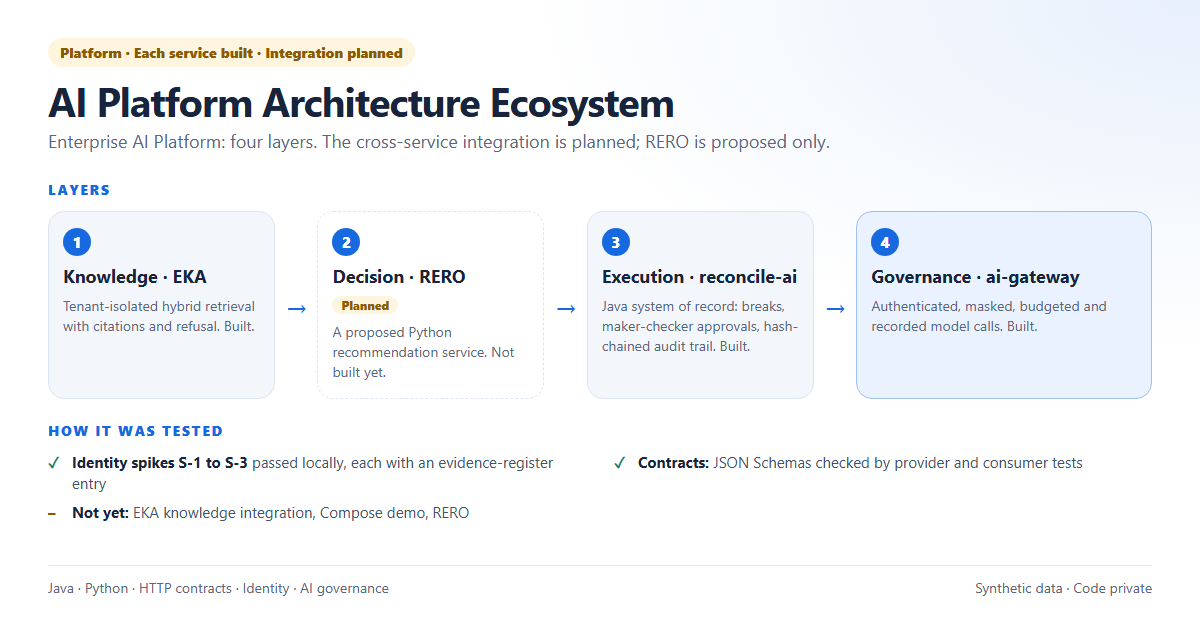
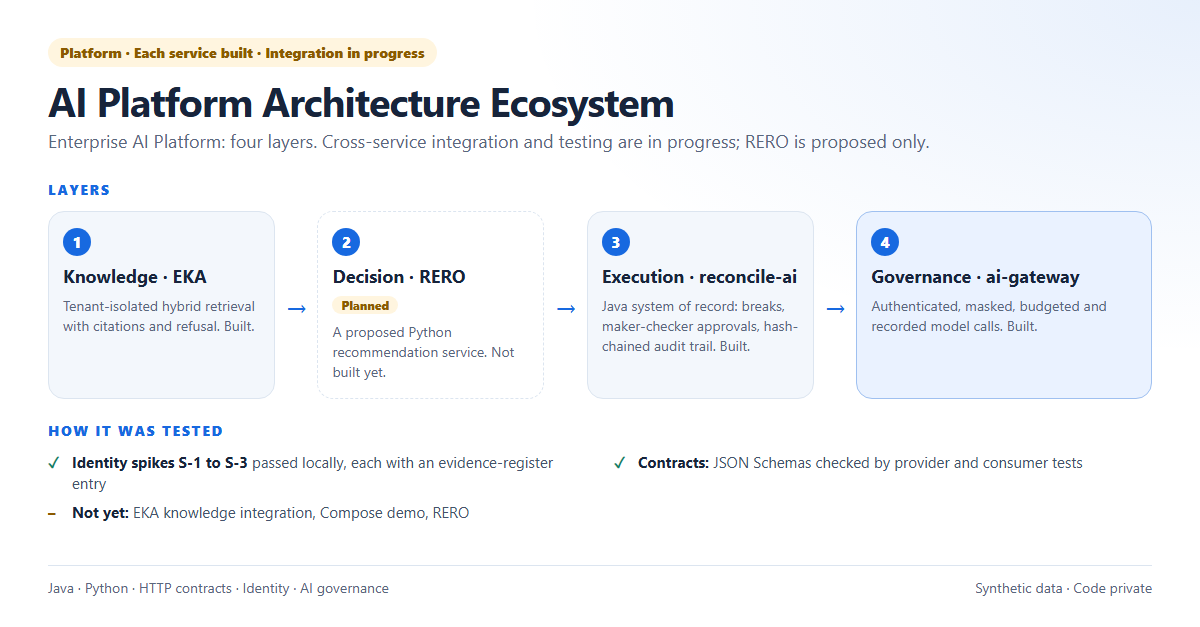
Move Platform Integration to major projects, add client and domain rows, add LTIMindtree AI points, fix contact band

Changed region(s): [[0.2467, 0.2121, 0.7708, 0.2424], [0.2775, 0.0606, 0.37, 0.1212]]

diff --git a/index.html b/index.html
@@ -234,6 +234,8 @@
       background: var(--navy);
       padding: 68px 0;
     }
+    /* Same specificity as the alternating-section rule above, and later, so the contact band stays navy. */
+    section.contact { background: var(--navy); }
     .contact .eyebrow { color: #a9c9ff; }
     .contact h2 { color: #fff; }
     .contact p { color: #c6d2e1; max-width: 660px; }
@@ -324,6 +326,12 @@
     .principle { padding: 18px 20px; }
     .principle h3 { margin: 0; font-size: 1rem; }
     .principle p { margin: 8px 0 0; font-size: .9rem; }
+    .card.small .status-row { margin-bottom: 8px; }
+    .engagements { display: grid; gap: 8px; margin: 14px 0 0; }
+    .engagement { margin: 0; padding: 9px 14px; border-left: 3px solid var(--blue); border-radius: 0 10px 10px 0; background: var(--pale); color: #43536b; font-size: .92rem; line-height: 1.55; }
+    .engagement strong { color: var(--ink); }
+    .engagement .sep { margin: 0 8px; color: #9fb0c6; }
+    .eng-domain { display: inline-block; margin-right: 10px; padding: 1px 10px; border-radius: 999px; background: #eaf2ff; color: var(--blue-dark); font-size: .74rem; font-weight: 800; letter-spacing: .02em; vertical-align: middle; }
     .contact .contact-lead { font-size: 1.15rem; color: #fff; max-width: 760px; }
     .contact .contact-lead a { color: #a9c9ff; font-weight: 700; }
     @media (max-width: 900px) { .metrics { grid-template-columns: repeat(3, minmax(0, 1fr)); } .principles { grid-template-columns: repeat(2, minmax(0, 1fr)); } }
@@ -623,40 +631,39 @@
 
           <article class="card featured">
             <div class="status-row">
-              <span class="status st-lang">Java · Flagship</span>
-              <span class="status">Built and tested</span>
-              <span class="status st-ci">CI green</span>
-              <span class="status st-live">Live-verified with real models</span>
+              <span class="status status-planned">Platform · Integration and feature testing in progress</span>
+              <span class="status">Identity spikes passed</span>
             </div>
-            <h3><a href="https://github.com/YellaiahMekala/SpringAI_SupportAssistant" target="_blank" rel="noopener noreferrer">Enterprise Spring AI Support Assistant</a></h3>
+            <h3>Enterprise AI Platform Integration</h3>
             <p>
-              Answers customer questions from company documents with citations, or declines when
-              the evidence is weak. Every model call goes through one governed path with a token
-              budget, sensitive-data checks and a circuit breaker. The repository is public.
+              An integration connecting reconcile-ai, EKA, and ai-gateway through explicit
+              service contracts. RERO is a proposed Python recommendation service. The
+              end-to-end integration should be treated as in progress until its cross-service
+              tests and demonstration have passed.
             </p>
-            <p class="stack">Java 21 · Spring Boot · Spring AI · pgvector · Keycloak · Resilience4j · Angular</p>
-            <div class="arch-title">How a request flows</div>
-            <div class="arch" role="group" aria-label="Support Assistant request flow">
-              <div class="arch-step"><span class="arch-num">1</span><strong>Sign in &amp; ask</strong><small>Angular 20 UI with streamed answers. Keycloak roles: customer and agent.</small></div>
+            <p class="stack">Java · Python · HTTP contracts · Identity · AI governance</p>
+            <div class="arch-title">Target request flow</div>
+            <div class="arch" role="group" aria-label="Platform target request flow">
+              <div class="arch-step"><span class="arch-num">1</span><strong>Identity</strong><small>One Keycloak realm, a client per tenant, and an audience per service. Local spike S-1 passed.</small></div>
               <div class="arch-arrow" aria-hidden="true">&rarr;</div>
-              <div class="arch-step"><span class="arch-num">2</span><strong>Ground</strong><small>pgvector search with the access filter inside the SQL. Declines when the evidence is weak.</small></div>
+              <div class="arch-step"><span class="arch-num">2</span><strong>reconcile-ai</strong><small>Java system of record: breaks, maker-checker approvals and the audit trail.</small></div>
               <div class="arch-arrow" aria-hidden="true">&rarr;</div>
-              <div class="arch-step arch-core"><span class="arch-num">3</span><strong>One governed path</strong><small>Admit (sensitive-data policy, size check, budget reservation), guarded call, then settle the budget.</small></div>
+              <div class="arch-step arch-planned"><span class="arch-num">3</span><strong>EKA knowledge</strong><span class="tag-planned">Planned</span><small>Tenant-isolated retrieval for evidence. Service identity reaching EKA passed spike S-2; the integration itself is not started.</small></div>
               <div class="arch-arrow" aria-hidden="true">&rarr;</div>
-              <div class="arch-step"><span class="arch-num">4</span><strong>Answer</strong><small>Citations are validated against the retrieved chunks, then streamed to the UI.</small></div>
+              <div class="arch-step arch-core"><span class="arch-num">4</span><strong>ai-gateway</strong><small>Governed model calls. The route is built in reconcile-ai and off by default; spike S-3 recorded usage against the token&rsquo;s tenant.</small></div>
             </div>
             <div class="evidence-title">How it was tested</div>
             <ul class="evidence">
-              <li><strong>End to end with real models:</strong> run manually against real model providers (Ollama and OpenAI) with synthetic data, outside CI. Automated tests use fakes and mocks.</li>
-              <li><strong>Concurrency-safe budget:</strong> the daily budget is one atomic SQL update, checked under concurrent requests.</li>
-              <li><strong>Ownership in SQL:</strong> asking for someone else&rsquo;s order returns the same 404 as a missing one.</li>
-              <li><strong>Mutation-checked:</strong> removing a rule makes the matching tests fail.</li>
+              <li><strong>Identity spikes S-1 to S-3</strong> passed locally, each with an entry in the platform evidence register.</li>
+              <li><strong>Contracts:</strong> cross-service JSON Schemas are checked by provider and consumer tests in the service repos.</li>
             </ul>
+            <p class="arch-note">Not yet done: the EKA knowledge integration, the end-to-end Compose demo and RERO are not started. Code private; walkthrough on request.</p>
             <div class="card-links">
-              <a href="https://github.com/YellaiahMekala/SpringAI_SupportAssistant" target="_blank" rel="noopener noreferrer">View repository →</a>
-              <a href="https://github.com/YellaiahMekala/SpringAI_SupportAssistant/actions" target="_blank" rel="noopener noreferrer">CI runs →</a>
-              <a href="https://github.com/YellaiahMekala/yellaiahmekala.github.io/blob/main/projects/support-assistant/README.md" target="_blank" rel="noopener noreferrer">Project evidence →</a>
-              <a href="projects/support-assistant/images/request-flow.png" target="_blank" rel="noopener noreferrer">Architecture diagram →</a>
+              <a href="https://github.com/YellaiahMekala/yellaiahmekala.github.io/blob/main/projects/platform/README.md" target="_blank" rel="noopener noreferrer">Full project details →</a>
+              <a href="https://github.com/YellaiahMekala/yellaiahmekala.github.io/blob/main/projects/platform/BRD.md" target="_blank" rel="noopener noreferrer">BRD →</a>
+              <a href="https://github.com/YellaiahMekala/yellaiahmekala.github.io/blob/main/projects/platform/TDD.md" target="_blank" rel="noopener noreferrer">TDD →</a>
+              <a href="projects/platform/images/request-flow.png" target="_blank" rel="noopener noreferrer">Architecture diagram →</a>
+              <a href="https://www.linkedin.com/in/yellaiah-mekala/" target="_blank" rel="noopener noreferrer">Request code access via LinkedIn →</a>
             </div>
           </article>
         </div>
@@ -664,23 +671,31 @@
         <h3 class="group-title">More projects</h3>
         <div class="project-grid compact">
           <article class="card small">
+            <div class="status-row">
+              <span class="status st-lang">Java · Public repository</span>
+              <span class="status">Built and tested</span>
+              <span class="status st-ci">CI green</span>
+              <span class="status st-live">Live-verified</span>
+            </div>
+            <h3><a href="https://github.com/YellaiahMekala/SpringAI_SupportAssistant" target="_blank" rel="noopener noreferrer">Enterprise Spring AI Support Assistant</a></h3>
+            <p>Answers customer questions from company documents with citations, or declines when the evidence is weak. Every model call goes through one governed path with a token budget, sensitive-data checks and a circuit breaker.</p>
+            <p>Run end to end against real models (Ollama and OpenAI) outside CI, with concurrency, ownership and mutation checks. Automated tests use fakes.</p>
+            <p class="stack">Java 21 · Spring Boot · Spring AI · pgvector · Keycloak · Angular</p>
+            <div class="card-links">
+              <a href="https://github.com/YellaiahMekala/SpringAI_SupportAssistant" target="_blank" rel="noopener noreferrer">Repository →</a>
+              <a href="https://github.com/YellaiahMekala/SpringAI_SupportAssistant/actions" target="_blank" rel="noopener noreferrer">CI runs →</a>
+              <a href="https://github.com/YellaiahMekala/yellaiahmekala.github.io/blob/main/projects/support-assistant/README.md" target="_blank" rel="noopener noreferrer">Evidence →</a>
+              <a href="projects/support-assistant/images/request-flow.png" target="_blank" rel="noopener noreferrer">Architecture →</a>
+            </div>
+          </article>
+
+          <article class="card small">
             <span class="status status-review">Java · AI agent · Portfolio project</span>
             <h3><a href="https://github.com/YellaiahMekala/ops-agent" target="_blank" rel="noopener noreferrer">ops-agent</a></h3>
             <p>An incident-triage agent for the gateway demo stack. An alert arrives from Alertmanager; the agent investigates with four read-only, audited tools (Prometheus, logs, runbook, health) and emails the owner a summary. It changes nothing.</p>
             <p class="stack">Java · LangChain4j · Prometheus · Alertmanager</p>
             <div class="card-links">
               <a href="https://github.com/YellaiahMekala/ops-agent" target="_blank" rel="noopener noreferrer">Repository →</a>
-            </div>
-          </article>
-
-          <article class="card small">
-            <span class="status status-planned">Platform · In progress · Roadmap</span>
-            <h3><a href="#architecture">Enterprise AI Platform Integration</a></h3>
-            <p>A planned integration of reconcile-ai, EKA and ai-gateway through explicit service contracts. Identity spikes have passed; the end-to-end integration is not yet demonstrated. Shown with its ecosystem diagram under Architecture.</p>
-            <p class="stack">Java · Python · HTTP contracts · Identity · AI governance</p>
-            <div class="card-links">
-              <a href="#architecture">Ecosystem &amp; flow →</a>
-              <a href="https://github.com/YellaiahMekala/yellaiahmekala.github.io/blob/main/projects/platform/README.md" target="_blank" rel="noopener noreferrer">Details →</a>
             </div>
           </article>
 
@@ -719,48 +734,7 @@
           <div class="arch-arrow" aria-hidden="true">&rarr;</div>
           <div class="arch-step arch-core"><span class="arch-layer">Governance layer</span><strong>ai-gateway</strong><small>Authenticated, masked, budgeted and recorded model calls. Built.</small></div>
         </div>
-        <p class="arch-note">Each service is built and tested on its own. The cross-service integration is planned, and RERO does not exist yet.</p>
-
-        <h3 class="group-title" style="margin-top:34px">Platform integration: roadmap, not yet demonstrated</h3>
-        <div class="project-grid">
-          <article class="card featured">
-            <div class="status-row">
-              <span class="status status-planned">Platform · In progress · Roadmap</span>
-              <span class="status">Identity spikes passed</span>
-            </div>
-            <h3>Enterprise AI Platform Integration</h3>
-            <p>
-              A planned integration connecting reconcile-ai, EKA, and ai-gateway through
-              explicit service contracts. RERO is a proposed Python recommendation service.
-              The end-to-end integration should be treated as planned until its cross-service
-              tests and demonstration have passed.
-            </p>
-            <p class="stack">Java · Python · HTTP contracts · Identity · AI governance</p>
-            <div class="arch-title">Target request flow (design)</div>
-            <div class="arch" role="group" aria-label="Platform target request flow">
-              <div class="arch-step"><span class="arch-num">1</span><strong>Identity</strong><small>One Keycloak realm, a client per tenant, and an audience per service. Local spike S-1 passed.</small></div>
-              <div class="arch-arrow" aria-hidden="true">&rarr;</div>
-              <div class="arch-step"><span class="arch-num">2</span><strong>reconcile-ai</strong><small>Java system of record: breaks, maker-checker approvals and the audit trail.</small></div>
-              <div class="arch-arrow" aria-hidden="true">&rarr;</div>
-              <div class="arch-step arch-planned"><span class="arch-num">3</span><strong>EKA knowledge</strong><span class="tag-planned">Planned</span><small>Tenant-isolated retrieval for evidence. Service identity reaching EKA passed spike S-2; the integration itself is not started.</small></div>
-              <div class="arch-arrow" aria-hidden="true">&rarr;</div>
-              <div class="arch-step arch-core"><span class="arch-num">4</span><strong>ai-gateway</strong><small>Governed model calls. The route is built in reconcile-ai and off by default; spike S-3 recorded usage against the token&rsquo;s tenant.</small></div>
-            </div>
-            <div class="evidence-title">How it was tested</div>
-            <ul class="evidence">
-              <li><strong>Identity spikes S-1 to S-3</strong> passed locally, each with an entry in the platform evidence register.</li>
-              <li><strong>Contracts:</strong> cross-service JSON Schemas are checked by provider and consumer tests in the service repos.</li>
-            </ul>
-            <p class="arch-note">Not yet done: the EKA knowledge integration, the end-to-end Compose demo and RERO are not started. Code private; walkthrough on request.</p>
-            <div class="card-links">
-              <a href="https://github.com/YellaiahMekala/yellaiahmekala.github.io/blob/main/projects/platform/README.md" target="_blank" rel="noopener noreferrer">Full project details →</a>
-              <a href="https://github.com/YellaiahMekala/yellaiahmekala.github.io/blob/main/projects/platform/BRD.md" target="_blank" rel="noopener noreferrer">BRD →</a>
-              <a href="https://github.com/YellaiahMekala/yellaiahmekala.github.io/blob/main/projects/platform/TDD.md" target="_blank" rel="noopener noreferrer">TDD →</a>
-              <a href="projects/platform/images/request-flow.png" target="_blank" rel="noopener noreferrer">Architecture diagram →</a>
-              <a href="https://www.linkedin.com/in/yellaiah-mekala/" target="_blank" rel="noopener noreferrer">Request code access via LinkedIn →</a>
-            </div>
-          </article>
-        </div>
+        <p class="arch-note">Each service is built and tested on its own. Cross-service integration and feature testing are in progress (see Enterprise AI Platform Integration above), and RERO does not exist yet.</p>
 
         <h3 class="group-title" style="margin-top:34px">Design principles</h3>
         <div class="principles">
@@ -817,11 +791,16 @@
               <h3>Senior Cloud Engineer <span class="company">· LTIMindtree</span></h3>
               <span class="date">Aug 2023 – May 2025</span>
             </div>
+            <div class="engagements" aria-label="Domain and client">
+              <p class="engagement"><span class="eng-domain">BFS domain</span><strong>Client:</strong> Top US-based banking client</p>
+            </div>
             <ul>
               <li>Delivered Java and Spring Boot microservices for an enterprise financial-services platform, modernizing reconciliation workflows for a US banking client.</li>
+              <li>Developed Java AI integration POCs using Spring AI and LangChain4j to evaluate LLM-powered transaction anomaly detection and intelligent reconciliation suggestions within the existing Spring Boot microservices architecture.</li>
+              <li>Prototyped a RAG-based document assistant using Spring AI with pgvector to enable natural language querying of reconciliation reports and banking policy documents.</li>
               <li>Worked with secure credential management, Docker and Kubernetes deployments, and Jenkins / UrbanCode Deploy delivery pipelines.</li>
               <li>Built Angular interfaces integrated with Java REST APIs, with unit tests written alongside the code.</li>
-              <li>Integrated GitHub Copilot and ChatGPT-4 into development workflows for feature delivery and code review.</li>
+              <li>Integrated AI productivity tools (GitHub Copilot, ChatGPT-4) into the SDLC, measurably reducing feature delivery cycles by 30%.</li>
             </ul>
           </article>
 
@@ -842,6 +821,11 @@
             <div class="timeline-top">
               <h3>Java Developer <span class="company">· Infosys</span></h3>
               <span class="date">Nov 2017 – Apr 2021</span>
+            </div>
+            <div class="engagements" aria-label="Clients and domains">
+              <p class="engagement"><span class="eng-domain">Health Insurance</span><strong>Client:</strong> MetLife, USA<span class="sep">|</span><strong>Projects:</strong> Enterprise Online Store (EOS) and RIS (Retirement &amp; Income Solutions) applications</p>
+              <p class="engagement"><span class="eng-domain">Media</span><strong>Client:</strong> WMG, USA<span class="sep">|</span><strong>Project:</strong> MEAD, a music albums and artists data platform</p>
+              <p class="engagement"><span class="eng-domain">Manufacturing</span><strong>Client:</strong> Agricultural machinery manufacturer<span class="sep">|</span><strong>Project:</strong> PIM (Product Information Management)</p>
             </div>
             <ul>
               <li>Delivered backend services and APIs for clients in health insurance, financial services, media, and manufacturing.</li>

diff --git a/_src/diagrams.html b/_src/diagrams.html
@@ -70,7 +70,7 @@ const D = {
   foot: ["Java · Spring Boot · PostgreSQL · Redis · Kafka","Synthetic data · Code private"]
  },
  "platform": {
-  badge: "Platform · In progress · Target design", planned: true, title: "Enterprise AI Platform Integration",
+  badge: "Platform · Integration and feature testing in progress", planned: true, title: "Enterprise AI Platform Integration",
   sub: "Design until verified: the end-to-end integration is not yet demonstrated.",
   label: "Target request flow",
   steps: [
@@ -100,8 +100,8 @@ const D = {
   foot: ["Python · FastAPI · PostgreSQL/pgvector · Java 21 edge · Angular","Synthetic data"]
  },
  "ecosystem": {
-  badge: "Platform · Each service built · Integration planned", planned: true, title: "AI Platform Architecture Ecosystem",
-  sub: "Enterprise AI Platform: four layers. The cross-service integration is planned; RERO is proposed only.",
+  badge: "Platform · Each service built · Integration in progress", planned: true, title: "AI Platform Architecture Ecosystem",
+  sub: "Enterprise AI Platform: four layers. Cross-service integration and testing are in progress; RERO is proposed only.",
   label: "Layers",
   steps: [
    ["Knowledge · EKA","Tenant-isolated hybrid retrieval with citations and refusal. Built."],
